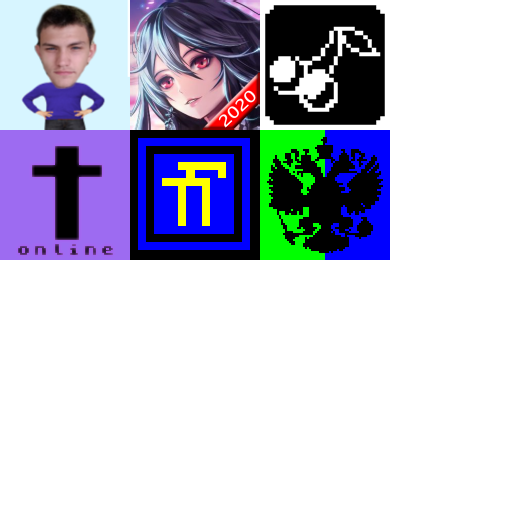
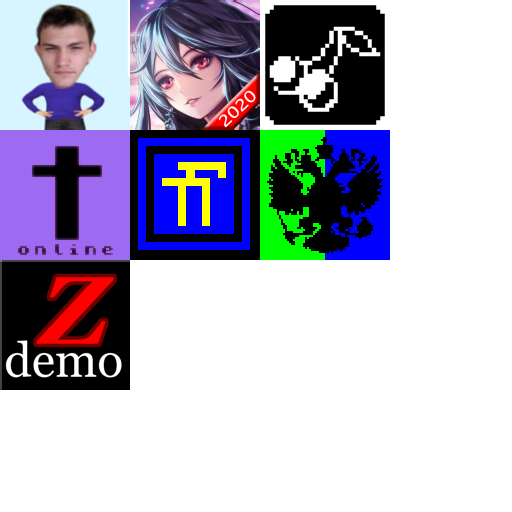
ashetzu

Changed region(s): [[0.0, 0.5, 0.2812, 0.7812]]

diff --git a/zhukarcade/data.js b/zhukarcade/data.js
@@ -1,1 +1,1 @@
-{"project": [null,"Layout 1",[[0,true,false,false,false,false,false,false,false,false],[1,true,false,false,false,false,false,false,false,false],[2,false,true,true,true,true,true,true,true,false]],[["t0",2,false,[],1,0,null,[["Default",5,false,1,0,false,8729553413497399,[["images/black-sheet0.png",155,0,0,250,250,1,0.5,0.5,[],[],4]]]],[["Fade",3,7585447175772735]],false,false,7387607240222709,[],null],["t1",2,false,[5264834202259024],0,0,null,[["Default",5,false,1,0,false,7266523906679442,[["images/logo-sheet0.png",10182,0,0,693,76,1,0.5007215142250061,0.5,[],[],0]]]],[],false,false,3768893213110195,[],null],["t2",2,false,[7465671858647733],0,0,null,[["Default",0,false,1,0,false,9752546712139465,[["images/button-sheet0.png",105800,1,1,128,128,1,0.5,0.5,[],[],0],["images/button-sheet0.png",105800,131,1,128,128,1,0.5,0.5,[],[],0],["images/button-sheet0.png",105800,261,1,128,128,1,0.5,0.5,[],[],0],["images/button-sheet0.png",105800,1,131,128,128,1,0.5,0.5,[],[],0],["images/button-sheet0.png",105800,131,131,128,128,1,0.5,0.5,[],[],0],["images/button-sheet0.png",105800,261,131,128,128,1,0.5,0.5,[],[],0],["images/button-sheet0.png",105800,1,261,128,128,1,0.5,0.5,[],[],0],["images/button-sheet0.png",105800,131,261,128,128,1,0.5,0.5,[],[-0.3828119933605194,-0.3828119933605194,0,-0.5,0.3671879768371582,-0.3671869933605194,0.5,0,0.3671879768371582,0.3671879768371582,0,0.5,-0.3671869933605194,0.3671879768371582,-0.5,0],0],["images/button-sheet0.png",105800,261,261,128,128,1,0.5,0.5,[],[],0],["images/button-sheet1.png",65476,1,1,128,128,1,0.5,0.5,[],[],0],["images/button-sheet1.png",65476,131,1,128,128,1,0.5,0.5,[],[],0],["images/button-sheet1.png",65476,261,1,128,128,1,0.5,0.5,[],[-0.4296875,-0.4296875,0,-0.5,0.4296879768371582,-0.4296875,0.5,0,0.4296879768371582,0.4296879768371582,0,0.5,-0.4296875,0.4296879768371582,-0.5,0],0],["images/button-sheet1.png",65476,1,131,128,128,1,0.5,0.5,[],[-0.4296875,-0.4296875,0,-0.5,0.4296879768371582,-0.4296875,0.5,0,0.4296879768371582,0.4296879768371582,0,0.5,-0.4296875,0.4296879768371582,-0.5,0],0],["images/button-sheet1.png",65476,131,131,128,128,1,0.5,0.5,[],[-0.4296875,-0.4296875,0,-0.5,0.4296879768371582,-0.4296875,0.5,0,0.4296879768371582,0.4296879768371582,0,0.5,-0.4296875,0.4296879768371582,-0.5,0],0],["images/button-sheet1.png",65476,261,131,128,128,1,0.5,0.5,[],[-0.4296875,-0.4296875,0,-0.5,0.4296879768371582,-0.4296875,0.5,0,0.4296879768371582,0.4296879768371582,0,0.5,-0.4296875,0.4296879768371582,-0.5,0],0]]]],[],false,false,9980455744818507,[],null],["t3",0,false,[],0,0,null,null,[],false,false,3950556047889374,[],null,[1]],["t4",1,false,[],0,0,null,null,[],false,false,1058401059279333,[],null,[]],["t5",2,false,[],0,0,null,[["Default",5,false,1,0,false,129155538360011,[["images/sprite-sheet0.png",368710,0,0,512,384,1,0.5,0.5,[],[],1]]]],[],false,false,1081738395218617,[],null]],[],[["Layout 1",1024,1024,true,"Event sheet 1",1530669330642996,[["Layer 0",0,3330524870586053,true,[0,0,0],false,1,1,1,false,false,1,0,0,[[[512,96,0,693,76,0,0,1,0.5007215142250061,0.5,0,0,[]],1,1,[[0]],[],[0,"Default",0,1]],[[192,224,0,96,96,0,0,1,0.5,0.5,0,0,[]],2,2,[["https://ashesandburden.netlify.com"]],[],[0,"Default",0,1]],[[320,224,0,96,96,0,0,1,0.5,0.5,0,0,[]],2,3,[["https://sircowboy.netlify.com"]],[],[0,"Default",1,1]],[[448,224,0,96,96,0,0,1,0.5,0.5,0,0,[]],2,4,[["https://platformer1.netlify.com/"]],[],[0,"Default",2,1]],[[576,224,0,96,96,0,0,1,0.5,0.5,0,0,[]],2,5,[["https://virtulitee.netlify.com/"]],[],[0,"Default",3,1]],[[704,224,0,96,96,0,0,1,0.5,0.5,0,0,[]],2,6,[["https://zhukfighter.netlify.com"]],[],[0,"Default",4,1]],[[832,224,0,96,96,0,0,1,0.5,0.5,0,0,[]],2,7,[["https://trah.netlify.com/"]],[],[0,"Default",5,1]],[[192,352,0,96,96,0,0,1,0.5,0.5,0,0,[]],2,8,[["https://debils.netlify.com/"]],[],[0,"Default",6,1]],[[320,352,0,96,96,0,0,1,0.5,0.5,0,0,[]],2,9,[["https://ddnvd.ru/kalobok"]],[],[0,"Default",7,1]],[[448,352,0,96,96,0,0,1,0.5,0.5,0,0,[]],2,12,[["http://ddnvd.ru/secha/"]],[],[0,"Default",8,1]],[[576,352,0,96,96,0,0,1,0.5,0.5,0,0,[]],2,13,[["http://ddnvd.ru/sas/"]],[],[0,"Default",9,1]],[[512,864,0,384,288,0,0,1,0.5,0.5,0,0,[]],5,14,[],[],[1,"Default",0,1]],[[704,352,0,96,96,0,0,1,0.5,0.5,0,0,[]],2,15,[["http://ddnvd.ru/chinese/"]],[],[0,"Default",10,1]],[[832,352,0,96,96,0,0,1,0.5,0.5,0,0,[]],2,16,[["http://ddnvd.ru/rmg/"]],[],[0,"Default",11,1]],[[192,480,0,96,96,0,0,1,0.5,0.5,0,0,[]],2,17,[["http://ddnvd.ru/aabo/"]],[],[0,"Default",12,1]],[[320,480,0,96,96,0,0,1,0.5,0.5,0,0,[]],2,18,[["http://ddnvd.ru/shobaka/"]],[],[0,"Default",13,1]],[[448,480,0,96,96,0,0,1,0.5,0.5,0,0,[]],2,19,[["http://ddnvd.ru/rhn/"]],[],[0,"Default",14,1]]],[]],["Layer 1",1,8749605358381316,true,[255,255,255],true,1,1,1,false,false,1,0,0,[[[515,515,0,1024,1024,0,0,1,0.5,0.5,0,0,[]],0,0,[],[[1,0,0,1,1]],[0,"Default",0,1]]],[]]],[],[]]],[["Event sheet 1",[[0,null,false,null,6743612669005715,[[3,4,null,1,false,false,false,1880414996016881,false,[[4,2]]]],[[4,5,null,4786341105401476,false,[[1,[21,2,true,null,0]],[3,0]]]]],[0,null,false,null,2494595899420115,[[3,4,null,1,false,false,false,8036022015270609,false,[[4,1]]]],[[1,6,null,493753392889241,false,[[10,0],[7,[0,1]]]]]],[0,null,false,null,2414228189421093,[[1,7,null,0,false,false,false,4525638202724129,false,[[10,0],[8,0],[7,[0,13]]]]],[[1,6,null,152056757639573,false,[[10,0],[7,[0,1]]]],[5,8,null,4306711313903181,false,[[3,1]]]]]]]],[],"media/",false,1024,1024,4,true,true,true,"1.1",true,false,2,0,20,false,true,1,true,"zhuk arcade",0,[]]}
+{"project": [null,"Layout 1",[[0,true,false,false,false,false,false,false,false,false],[1,false,true,true,true,true,true,true,true,false],[2,true,false,false,false,false,false,false,false,false]],[["t0",1,false,[],1,0,null,[["Default",5,false,1,0,false,8729553413497399,[["images/black-sheet0.png",155,0,0,250,250,1,0.5,0.5,[],[],4]]]],[["Fade",3,7585447175772735]],false,false,7387607240222709,[],null],["t1",1,false,[5264834202259024],0,0,null,[["Default",5,false,1,0,false,7266523906679442,[["images/logo-sheet0.png",10182,0,0,693,76,1,0.5007215142250061,0.5,[],[],0]]]],[],false,false,3768893213110195,[],null],["t2",1,false,[7465671858647733],0,0,null,[["Default",0,false,1,0,false,9752546712139465,[["images/button-sheet0.png",105800,1,1,128,128,1,0.5,0.5,[],[],0],["images/button-sheet0.png",105800,131,1,128,128,1,0.5,0.5,[],[],0],["images/button-sheet0.png",105800,261,1,128,128,1,0.5,0.5,[],[],0],["images/button-sheet0.png",105800,1,131,128,128,1,0.5,0.5,[],[],0],["images/button-sheet0.png",105800,131,131,128,128,1,0.5,0.5,[],[],0],["images/button-sheet0.png",105800,261,131,128,128,1,0.5,0.5,[],[],0],["images/button-sheet0.png",105800,1,261,128,128,1,0.5,0.5,[],[],0],["images/button-sheet0.png",105800,131,261,128,128,1,0.5,0.5,[],[-0.3828119933605194,-0.3828119933605194,0,-0.5,0.3671879768371582,-0.3671869933605194,0.5,0,0.3671879768371582,0.3671879768371582,0,0.5,-0.3671869933605194,0.3671879768371582,-0.5,0],0],["images/button-sheet0.png",105800,261,261,128,128,1,0.5,0.5,[],[],0],["images/button-sheet1.png",72030,1,1,128,128,1,0.5,0.5,[],[],0],["images/button-sheet1.png",72030,131,1,128,128,1,0.5,0.5,[],[],0],["images/button-sheet1.png",72030,261,1,128,128,1,0.5,0.5,[],[-0.4296875,-0.4296875,0,-0.5,0.4296879768371582,-0.4296875,0.5,0,0.4296879768371582,0.4296879768371582,0,0.5,-0.4296875,0.4296879768371582,-0.5,0],0],["images/button-sheet1.png",72030,1,131,128,128,1,0.5,0.5,[],[-0.4296875,-0.4296875,0,-0.5,0.4296879768371582,-0.4296875,0.5,0,0.4296879768371582,0.4296879768371582,0,0.5,-0.4296875,0.4296879768371582,-0.5,0],0],["images/button-sheet1.png",72030,131,131,128,128,1,0.5,0.5,[],[-0.4296875,-0.4296875,0,-0.5,0.4296879768371582,-0.4296875,0.5,0,0.4296879768371582,0.4296879768371582,0,0.5,-0.4296875,0.4296879768371582,-0.5,0],0],["images/button-sheet1.png",72030,261,131,128,128,1,0.5,0.5,[],[-0.4296875,-0.4296875,0,-0.5,0.4296879768371582,-0.4296875,0.5,0,0.4296879768371582,0.4296879768371582,0,0.5,-0.4296875,0.4296879768371582,-0.5,0],0],["images/button-sheet1.png",72030,1,261,128,128,1,0.5,0.5,[],[-0.4296875,-0.4296875,0,-0.5,0.4296879768371582,-0.4296875,0.5,0,0.4296879768371582,0.4296879768371582,0,0.5,-0.4296875,0.4296879768371582,-0.5,0],0]]]],[],false,false,9980455744818507,[],null],["t3",2,false,[],0,0,null,null,[],false,false,3950556047889374,[],null,[1]],["t4",0,false,[],0,0,null,null,[],false,false,1058401059279333,[],null,[]],["t5",1,false,[],0,0,null,[["Default",5,false,1,0,false,129155538360011,[["images/sprite-sheet0.png",368710,0,0,512,384,1,0.5,0.5,[],[],1]]]],[],false,false,1081738395218617,[],null]],[],[["Layout 1",1024,1024,true,"Event sheet 1",1530669330642996,[["Layer 0",0,3330524870586053,true,[0,0,0],false,1,1,1,false,false,1,0,0,[[[512,96,0,693,76,0,0,1,0.5007215142250061,0.5,0,0,[]],1,1,[[0]],[],[0,"Default",0,1]],[[192,224,0,96,96,0,0,1,0.5,0.5,0,0,[]],2,2,[["https://ashesandburden.netlify.com"]],[],[0,"Default",0,1]],[[320,224,0,96,96,0,0,1,0.5,0.5,0,0,[]],2,3,[["https://sircowboy.netlify.com"]],[],[0,"Default",1,1]],[[448,224,0,96,96,0,0,1,0.5,0.5,0,0,[]],2,4,[["https://platformer1.netlify.com/"]],[],[0,"Default",2,1]],[[576,224,0,96,96,0,0,1,0.5,0.5,0,0,[]],2,5,[["https://virtulitee.netlify.com/"]],[],[0,"Default",3,1]],[[704,224,0,96,96,0,0,1,0.5,0.5,0,0,[]],2,6,[["https://zhukfighter.netlify.com"]],[],[0,"Default",4,1]],[[832,224,0,96,96,0,0,1,0.5,0.5,0,0,[]],2,7,[["https://trah.netlify.com/"]],[],[0,"Default",5,1]],[[192,352,0,96,96,0,0,1,0.5,0.5,0,0,[]],2,8,[["https://debils.netlify.com/"]],[],[0,"Default",6,1]],[[320,352,0,96,96,0,0,1,0.5,0.5,0,0,[]],2,9,[["https://ddnvd.ru/kalobok"]],[],[0,"Default",7,1]],[[448,352,0,96,96,0,0,1,0.5,0.5,0,0,[]],2,12,[["http://ddnvd.ru/secha/"]],[],[0,"Default",8,1]],[[576,352,0,96,96,0,0,1,0.5,0.5,0,0,[]],2,13,[["http://ddnvd.ru/sas/"]],[],[0,"Default",9,1]],[[512,864,0,384,288,0,0,1,0.5,0.5,0,0,[]],5,14,[],[],[1,"Default",0,1]],[[704,352,0,96,96,0,0,1,0.5,0.5,0,0,[]],2,15,[["http://ddnvd.ru/chinese/"]],[],[0,"Default",10,1]],[[832,352,0,96,96,0,0,1,0.5,0.5,0,0,[]],2,16,[["http://ddnvd.ru/rmg/"]],[],[0,"Default",11,1]],[[192,480,0,96,96,0,0,1,0.5,0.5,0,0,[]],2,17,[["http://ddnvd.ru/aabo/"]],[],[0,"Default",12,1]],[[320,480,0,96,96,0,0,1,0.5,0.5,0,0,[]],2,18,[["http://ddnvd.ru/shobaka/"]],[],[0,"Default",13,1]],[[448,480,0,96,96,0,0,1,0.5,0.5,0,0,[]],2,19,[["http://ddnvd.ru/rhn/"]],[],[0,"Default",14,1]],[[576,480,0,96,96,0,0,1,0.5,0.5,0,0,[]],2,20,[["http://ddnvd.ru/ashetzu/"]],[],[0,"Default",15,1]]],[]],["Layer 1",1,8749605358381316,true,[255,255,255],true,1,1,1,false,false,1,0,0,[[[515,515,0,1024,1024,0,0,1,0.5,0.5,0,0,[]],0,0,[],[[1,0,0,1,1]],[0,"Default",0,1]]],[]]],[],[]]],[["Event sheet 1",[[0,null,false,null,6743612669005715,[[3,4,null,1,false,false,false,1880414996016881,false,[[4,2]]]],[[4,5,null,4786341105401476,false,[[1,[21,2,true,null,0]],[3,0]]]]],[0,null,false,null,2494595899420115,[[3,4,null,1,false,false,false,8036022015270609,false,[[4,1]]]],[[1,6,null,493753392889241,false,[[10,0],[7,[0,1]]]]]],[0,null,false,null,2414228189421093,[[1,7,null,0,false,false,false,4525638202724129,false,[[10,0],[8,0],[7,[0,13]]]]],[[1,6,null,152056757639573,false,[[10,0],[7,[0,1]]]],[5,8,null,4306711313903181,false,[[3,1]]]]]]]],[],"media/",false,1024,1024,4,true,true,true,"1.1",true,false,2,0,21,false,true,1,true,"zhuk arcade",0,[]]}

diff --git a/zhukarcade/c2runtime.js b/zhukarcade/c2runtime.js
@@ -18052,9 +18052,9 @@ cr.behaviors.Fade = function(runtime)
 	behaviorProto.exps = new Exps();
 }());
 cr.getObjectRefTable = function () { return [
-	cr.plugins_.Touch,
 	cr.plugins_.Browser,
 	cr.plugins_.Sprite,
+	cr.plugins_.Touch,
 	cr.behaviors.Fade,
 	cr.plugins_.Touch.prototype.cnds.OnTouchObject,
 	cr.plugins_.Browser.prototype.acts.GoToURL,
